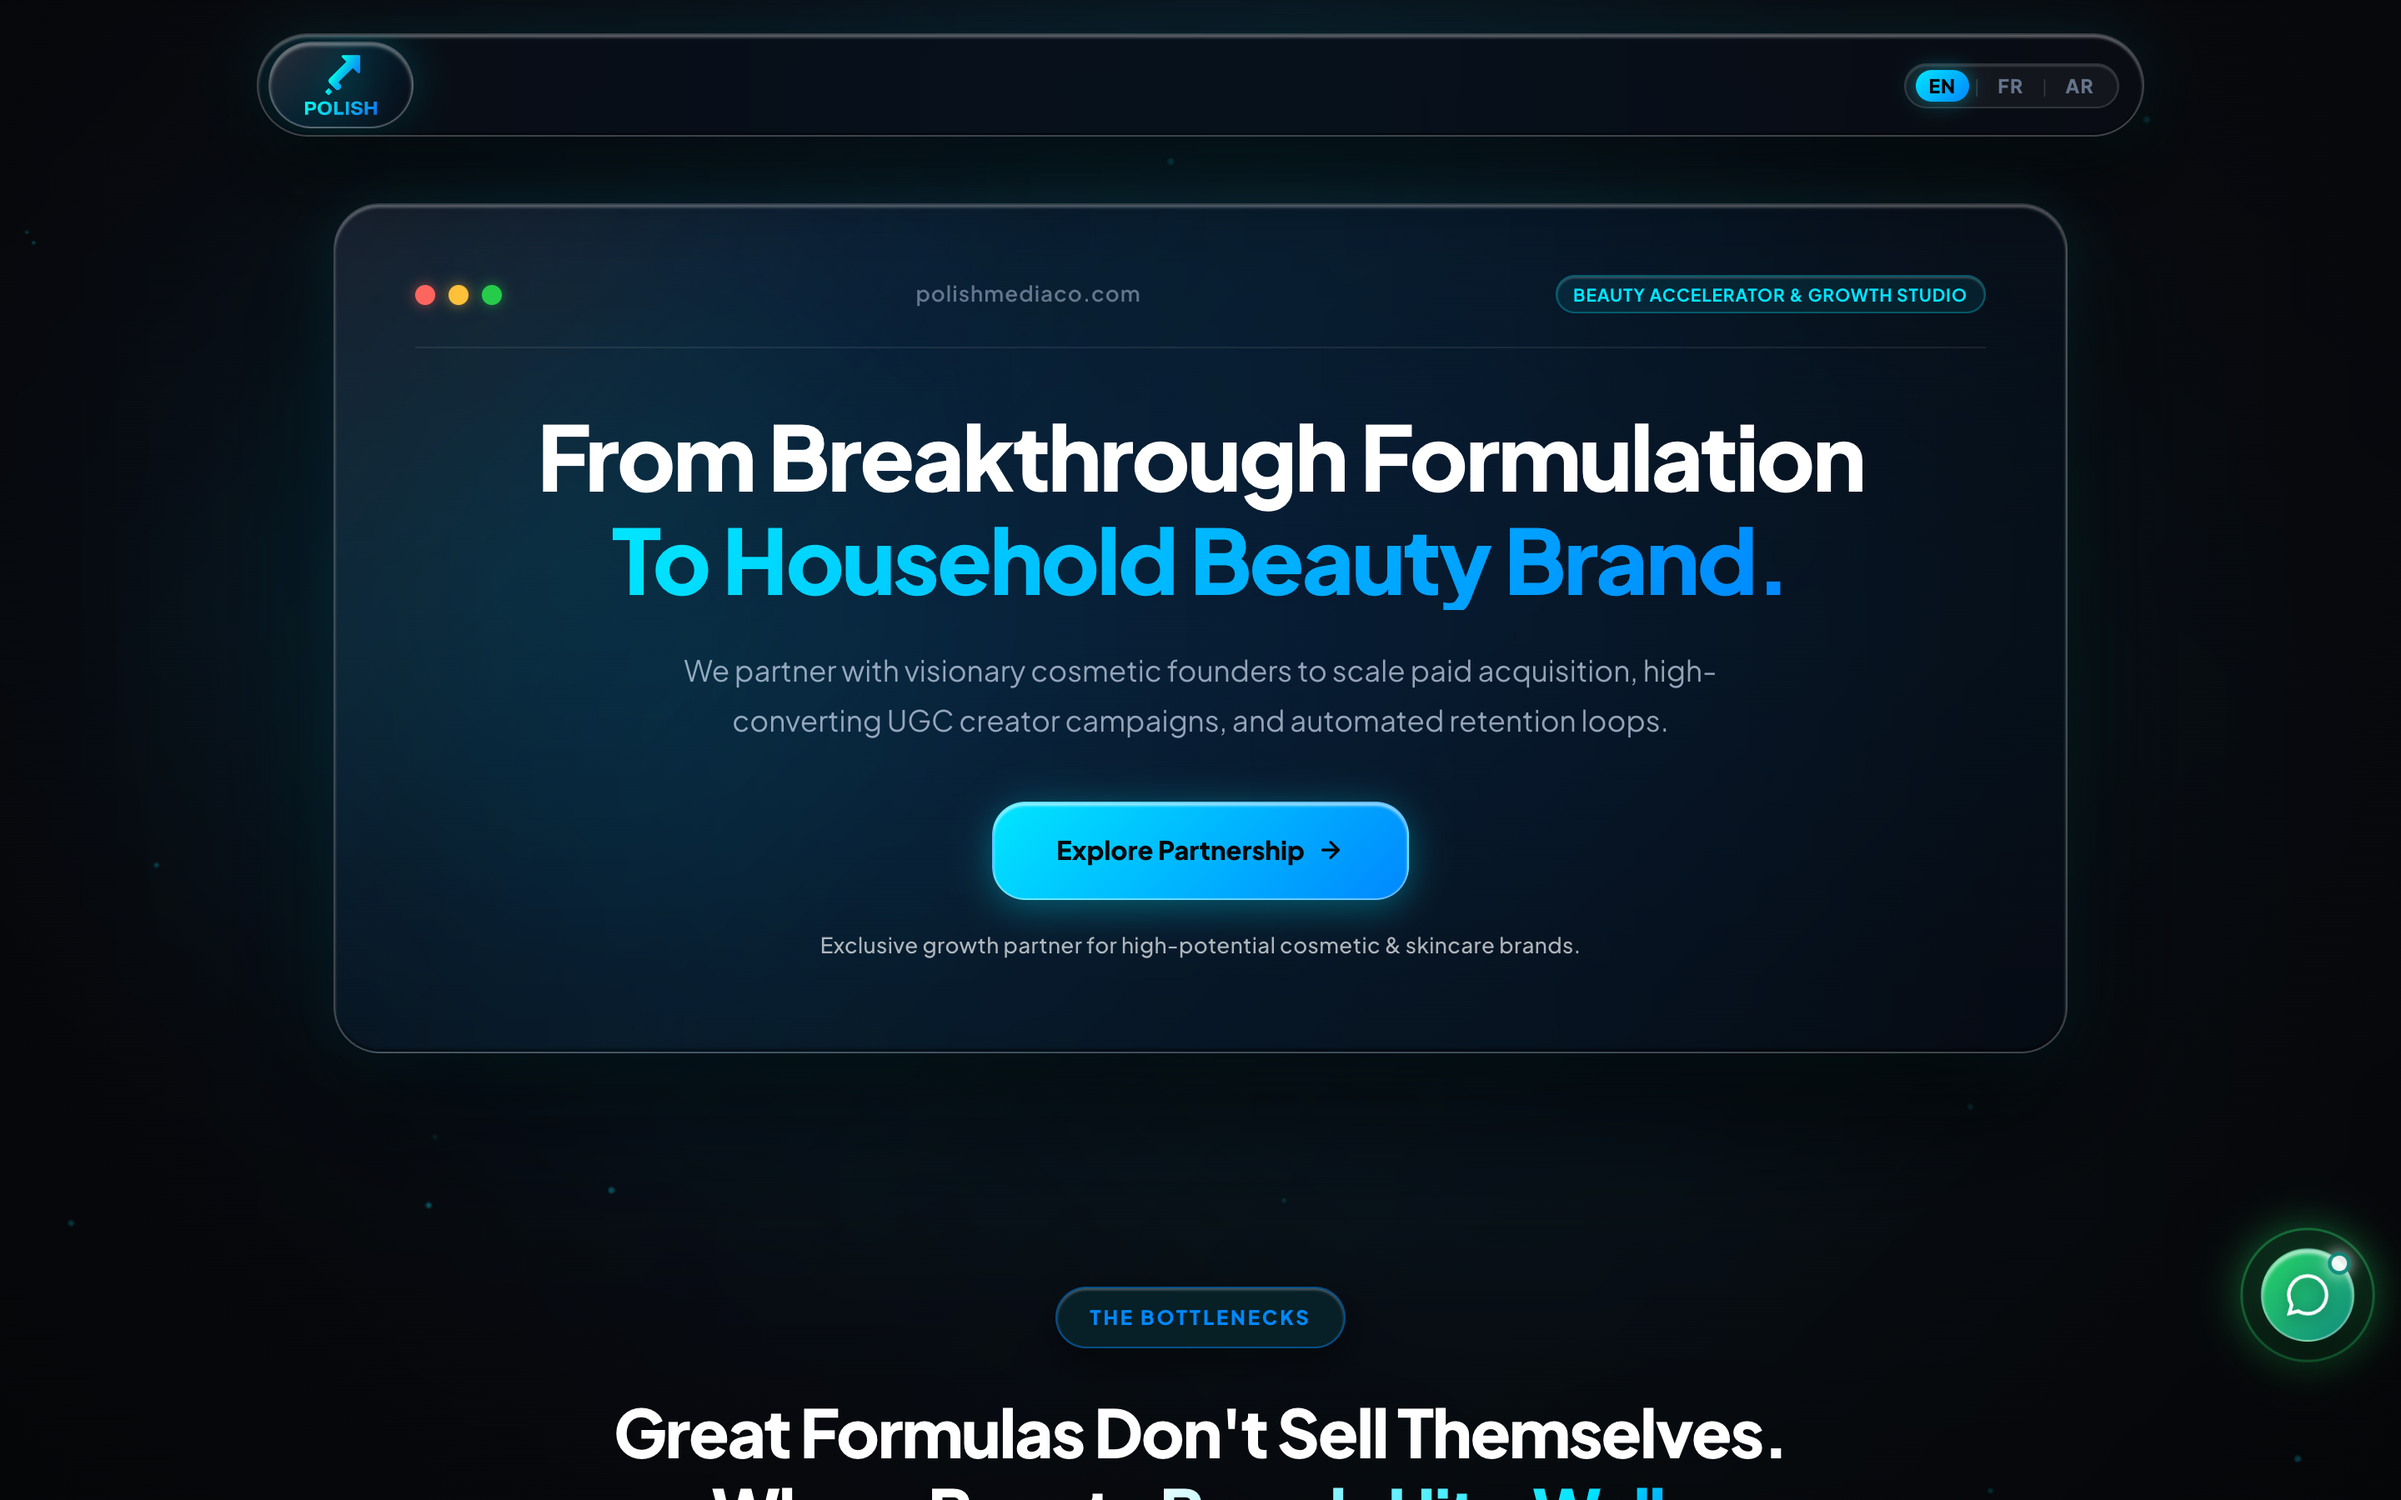
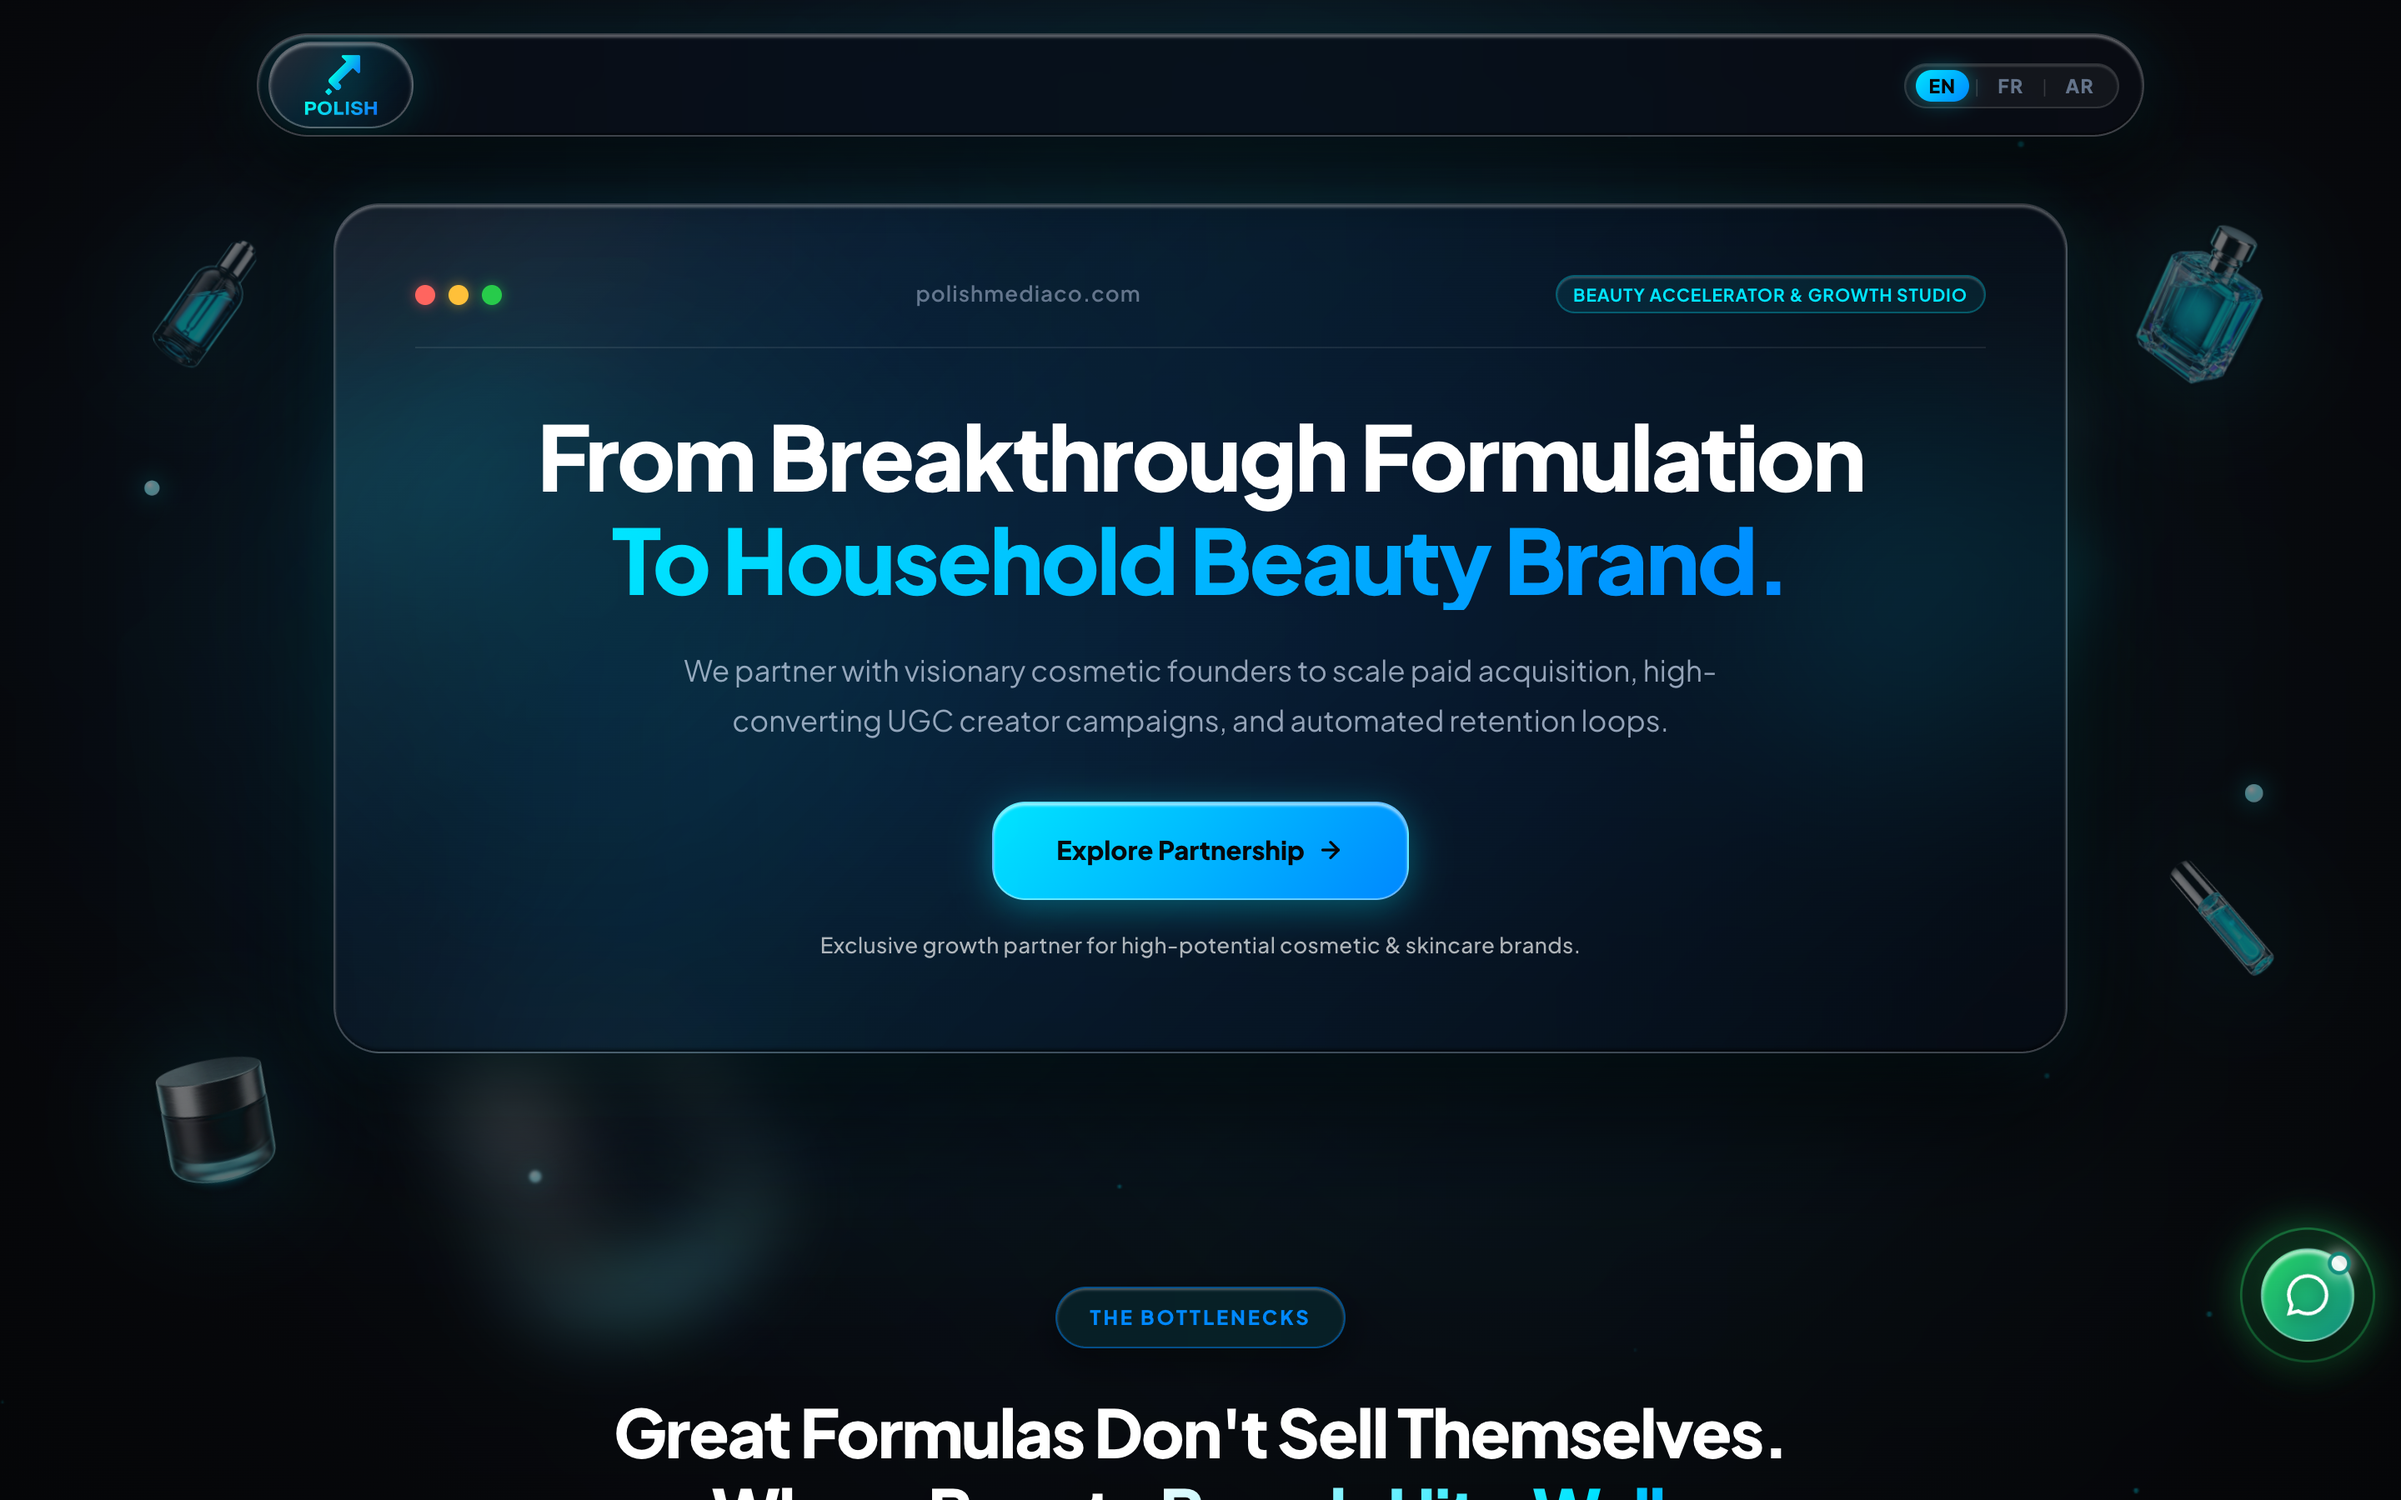
feat: implement modern web guidance multi-plane cinematic beauty depth engine with GPU harmonic physics

diff --git a/public/css/style.css b/public/css/style.css
@@ -179,6 +179,207 @@ body {
   100% { transform: translateX(-50%) rotate(4deg) scale(1.06); opacity: 0.9; }
 }
 
+/* ==========================================================================
+   CINEMATIC MULTI-PLANE LUXURY BEAUTY DEPTH ENGINE (GPU ACCELERATED)
+   ========================================================================== */
+
+.beauty-depth-layer {
+  position: absolute;
+  inset: 0;
+  width: 100%;
+  height: 100%;
+  pointer-events: none;
+  overflow: hidden;
+  will-change: transform;
+}
+
+/* Layer 1: Far Volumetric Bokeh Beauty Atmosphere (Deep Field Depth) */
+.beauty-depth-far {
+  z-index: 1;
+  filter: blur(20px) saturate(135%);
+  opacity: 0.28;
+  mix-blend-mode: screen;
+}
+
+.beauty-bokeh-item {
+  position: absolute;
+  pointer-events: none;
+  will-change: transform;
+}
+
+.beauty-bokeh-item img {
+  display: block;
+  width: 100%;
+  height: auto;
+  user-select: none;
+  -webkit-user-drag: none;
+}
+
+.bokeh-serum {
+  top: 12%;
+  left: 8%;
+  width: clamp(200px, 22vw, 320px);
+  animation: bokehDrift1 36s ease-in-out infinite alternate;
+}
+
+.bokeh-perfume {
+  top: 15%;
+  right: 6%;
+  width: clamp(220px, 24vw, 340px);
+  animation: bokehDrift2 42s ease-in-out infinite alternate-reverse;
+}
+
+.bokeh-cream {
+  top: 58%;
+  left: 14%;
+  width: clamp(210px, 23vw, 330px);
+  animation: bokehDrift3 38s ease-in-out infinite alternate;
+}
+
+/* Layer 2: Mid-Ground Luminous Crystal Beauty Products (Atmospheric Focus) */
+.beauty-depth-mid {
+  z-index: 2;
+  opacity: 0.42;
+  mix-blend-mode: screen;
+}
+
+.beauty-floating-item {
+  position: absolute;
+  pointer-events: none;
+  will-change: transform;
+  filter: drop-shadow(0 0 35px rgba(0, 229, 255, 0.35)) drop-shadow(0 20px 40px rgba(0, 0, 0, 0.95));
+}
+
+.beauty-floating-item img {
+  display: block;
+  width: 100%;
+  height: auto;
+  user-select: none;
+  -webkit-user-drag: none;
+  filter: saturate(110%) contrast(105%);
+}
+
+.float-serum-left {
+  top: 14%;
+  left: clamp(16px, 4.5vw, 75px);
+  width: clamp(75px, 8vw, 125px);
+  animation: beautyHarmonic1 26s cubic-bezier(0.45, 0.05, 0.55, 0.95) infinite alternate;
+}
+
+.float-perfume-right {
+  top: 16%;
+  right: clamp(16px, 4.8vw, 82px);
+  width: clamp(80px, 8.5vw, 132px);
+  animation: beautyHarmonic2 29s cubic-bezier(0.45, 0.05, 0.55, 0.95) infinite alternate-reverse;
+}
+
+.float-lipglaze-right {
+  top: 56%;
+  right: clamp(14px, 4.2vw, 72px);
+  width: clamp(62px, 6.5vw, 98px);
+  animation: beautyHarmonic3 24s cubic-bezier(0.45, 0.05, 0.55, 0.95) infinite alternate;
+}
+
+.float-cream-left {
+  top: 66%;
+  left: clamp(14px, 4.4vw, 76px);
+  width: clamp(78px, 8.2vw, 128px);
+  animation: beautyHarmonic4 28s cubic-bezier(0.45, 0.05, 0.55, 0.95) infinite alternate-reverse;
+}
+
+/* Layer 3: Subtle Refractive Liquid Essence Droplets */
+.beauty-depth-near {
+  z-index: 3;
+}
+
+.liquid-glint {
+  position: absolute;
+  border-radius: 50%;
+  background: radial-gradient(circle at 35% 30%, #FFFFFF 0%, #00E5FF 60%, rgba(0, 136, 255, 0.2) 100%);
+  box-shadow: 0 0 16px rgba(0, 229, 255, 0.7), inset -2px -2px 6px rgba(255, 255, 255, 0.8);
+  will-change: transform;
+}
+
+.glint-1 {
+  top: 32%;
+  left: clamp(20px, 6vw, 95px);
+  width: 10px;
+  height: 10px;
+  opacity: 0.85;
+  animation: glintDrift1 18s ease-in-out infinite alternate;
+}
+
+.glint-2 {
+  top: 48%;
+  right: clamp(20px, 6.5vw, 100px);
+  width: 12px;
+  height: 12px;
+  opacity: 0.8;
+  animation: glintDrift2 22s ease-in-out infinite alternate-reverse;
+}
+
+.glint-3 {
+  top: 78%;
+  left: 22%;
+  width: 8px;
+  height: 8px;
+  opacity: 0.6;
+  filter: blur(1px);
+  animation: glintDrift1 26s ease-in-out infinite alternate;
+}
+
+/* Physics-based Easing Keyframes (100% GPU Composited) */
+@keyframes bokehDrift1 {
+  0% { transform: translate3d(0, 0, 0) scale(0.96) rotate(-4deg); }
+  100% { transform: translate3d(30px, -40px, 0) scale(1.08) rotate(4deg); }
+}
+
+@keyframes bokehDrift2 {
+  0% { transform: translate3d(0, 0, 0) scale(1.04) rotate(6deg); }
+  100% { transform: translate3d(-35px, 45px, 0) scale(0.95) rotate(-3deg); }
+}
+
+@keyframes bokehDrift3 {
+  0% { transform: translate3d(0, 0, 0) scale(0.98); }
+  100% { transform: translate3d(25px, 35px, 0) scale(1.06); }
+}
+
+@keyframes beautyHarmonic1 {
+  0% { transform: translate3d(0, 0, 0) rotate(-6deg) scale(1); }
+  50% { transform: translate3d(10px, -18px, 0) rotate(-1deg) scale(1.02); }
+  100% { transform: translate3d(-8px, -32px, 0) rotate(3deg) scale(0.98); }
+}
+
+@keyframes beautyHarmonic2 {
+  0% { transform: translate3d(0, 0, 0) rotate(8deg) scale(1); }
+  50% { transform: translate3d(-12px, 16px, 0) rotate(2deg) scale(1.03); }
+  100% { transform: translate3d(10px, -22px, 0) rotate(-4deg) scale(0.98); }
+}
+
+@keyframes beautyHarmonic3 {
+  0% { transform: translate3d(0, 0, 0) rotate(-8deg); }
+  50% { transform: translate3d(8px, 16px, 0) rotate(-2deg); }
+  100% { transform: translate3d(-10px, 26px, 0) rotate(-12deg); }
+}
+
+@keyframes beautyHarmonic4 {
+  0% { transform: translate3d(0, 0, 0) rotate(6deg); }
+  50% { transform: translate3d(-10px, -14px, 0) rotate(-1deg); }
+  100% { transform: translate3d(8px, 18px, 0) rotate(10deg); }
+}
+
+@keyframes glintDrift1 {
+  0% { transform: translate3d(0, 0, 0) scale(0.9); opacity: 0.5; }
+  50% { transform: translate3d(14px, -20px, 0) scale(1.2); opacity: 0.95; }
+  100% { transform: translate3d(-10px, -36px, 0) scale(0.85); opacity: 0.4; }
+}
+
+@keyframes glintDrift2 {
+  0% { transform: translate3d(0, 0, 0) scale(1); opacity: 0.7; }
+  50% { transform: translate3d(-16px, 22px, 0) scale(1.25); opacity: 1; }
+  100% { transform: translate3d(12px, 38px, 0) scale(0.9); opacity: 0.5; }
+}
+
 /* Mouse-Tracking Caustic Orb (GPU Composited) */
 .mouse-caustic-light {
   position: fixed;

diff --git a/public/creators.html b/public/creators.html
@@ -19,13 +19,49 @@
 </head>
 <body class="page-apply">
 
-  <!-- Atmospheric Luxury Studio Aurora & Caustics Engine -->
+  <!-- Cinematic Multi-Plane Luxury Beauty Atmosphere Engine -->
   <div class="bg-canvas-wrap ambient-bg-container" aria-hidden="true">
     <div class="ambient-glow-top"></div>
     <div class="ambient-glow-cyan"></div>
     <div class="ambient-glow-blue"></div>
     <div class="ambient-glow-center"></div>
     <div class="ambient-aurora-prism"></div>
+
+    <!-- Depth Layer 1: Volumetric Deep Bokeh Beauty Silhouettes -->
+    <div class="beauty-depth-layer beauty-depth-far">
+      <div class="beauty-bokeh-item bokeh-serum">
+        <img src="/assets/3d/serum-3d.webp" alt="" width="280" height="280" loading="lazy">
+      </div>
+      <div class="beauty-bokeh-item bokeh-perfume">
+        <img src="/assets/3d/perfume-3d.webp" alt="" width="300" height="300" loading="lazy">
+      </div>
+      <div class="beauty-bokeh-item bokeh-cream">
+        <img src="/assets/3d/cream-3d.webp" alt="" width="290" height="290" loading="lazy">
+      </div>
+    </div>
+
+    <!-- Depth Layer 2: Ambient Mid-Ground Floating Crystal Glass Elements -->
+    <div class="beauty-depth-layer beauty-depth-mid">
+      <div class="beauty-floating-item float-serum-left">
+        <img src="/assets/3d/serum-3d.webp" alt="" width="130" height="130" loading="lazy">
+      </div>
+      <div class="beauty-floating-item float-perfume-right">
+        <img src="/assets/3d/perfume-3d.webp" alt="" width="135" height="135" loading="lazy">
+      </div>
+      <div class="beauty-floating-item float-lipglaze-right">
+        <img src="/assets/3d/lipglaze-3d.webp" alt="" width="110" height="110" loading="lazy">
+      </div>
+      <div class="beauty-floating-item float-cream-left">
+        <img src="/assets/3d/cream-3d.webp" alt="" width="135" height="135" loading="lazy">
+      </div>
+    </div>
+
+    <!-- Depth Layer 3: Micro Liquid Cyan Glints -->
+    <div class="beauty-depth-layer beauty-depth-near">
+      <div class="liquid-glint glint-1"></div>
+      <div class="liquid-glint glint-2"></div>
+      <div class="liquid-glint glint-3"></div>
+    </div>
   </div>
 
   <!-- Hovering Glass Header Island -->

diff --git a/public/apply.html b/public/apply.html
@@ -29,13 +29,49 @@
 </head>
 <body>
 
-  <!-- Atmospheric Luxury Studio Aurora & Caustics Engine -->
+  <!-- Cinematic Multi-Plane Luxury Beauty Atmosphere Engine -->
   <div class="bg-canvas-wrap ambient-bg-container" aria-hidden="true">
     <div class="ambient-glow-top"></div>
     <div class="ambient-glow-cyan"></div>
     <div class="ambient-glow-blue"></div>
     <div class="ambient-glow-center"></div>
     <div class="ambient-aurora-prism"></div>
+
+    <!-- Depth Layer 1: Volumetric Deep Bokeh Beauty Silhouettes -->
+    <div class="beauty-depth-layer beauty-depth-far">
+      <div class="beauty-bokeh-item bokeh-serum">
+        <img src="/assets/3d/serum-3d.webp" alt="" width="280" height="280" loading="lazy">
+      </div>
+      <div class="beauty-bokeh-item bokeh-perfume">
+        <img src="/assets/3d/perfume-3d.webp" alt="" width="300" height="300" loading="lazy">
+      </div>
+      <div class="beauty-bokeh-item bokeh-cream">
+        <img src="/assets/3d/cream-3d.webp" alt="" width="290" height="290" loading="lazy">
+      </div>
+    </div>
+
+    <!-- Depth Layer 2: Ambient Mid-Ground Floating Crystal Glass Elements -->
+    <div class="beauty-depth-layer beauty-depth-mid">
+      <div class="beauty-floating-item float-serum-left">
+        <img src="/assets/3d/serum-3d.webp" alt="" width="130" height="130" loading="lazy">
+      </div>
+      <div class="beauty-floating-item float-perfume-right">
+        <img src="/assets/3d/perfume-3d.webp" alt="" width="135" height="135" loading="lazy">
+      </div>
+      <div class="beauty-floating-item float-lipglaze-right">
+        <img src="/assets/3d/lipglaze-3d.webp" alt="" width="110" height="110" loading="lazy">
+      </div>
+      <div class="beauty-floating-item float-cream-left">
+        <img src="/assets/3d/cream-3d.webp" alt="" width="135" height="135" loading="lazy">
+      </div>
+    </div>
+
+    <!-- Depth Layer 3: Micro Liquid Cyan Glints -->
+    <div class="beauty-depth-layer beauty-depth-near">
+      <div class="liquid-glint glint-1"></div>
+      <div class="liquid-glint glint-2"></div>
+      <div class="liquid-glint glint-3"></div>
+    </div>
   </div>
 
   <!-- Hovering Glass Header Island -->

diff --git a/public/index.html b/public/index.html
@@ -29,13 +29,49 @@
 </head>
 <body>
 
-  <!-- Atmospheric Luxury Studio Aurora & Caustics Engine -->
+  <!-- Cinematic Multi-Plane Luxury Beauty Atmosphere Engine -->
   <div class="bg-canvas-wrap ambient-bg-container" aria-hidden="true">
     <div class="ambient-glow-top"></div>
     <div class="ambient-glow-cyan"></div>
     <div class="ambient-glow-blue"></div>
     <div class="ambient-glow-center"></div>
     <div class="ambient-aurora-prism"></div>
+
+    <!-- Depth Layer 1: Volumetric Deep Bokeh Beauty Silhouettes -->
+    <div class="beauty-depth-layer beauty-depth-far">
+      <div class="beauty-bokeh-item bokeh-serum">
+        <img src="/assets/3d/serum-3d.webp" alt="" width="280" height="280" loading="lazy">
+      </div>
+      <div class="beauty-bokeh-item bokeh-perfume">
+        <img src="/assets/3d/perfume-3d.webp" alt="" width="300" height="300" loading="lazy">
+      </div>
+      <div class="beauty-bokeh-item bokeh-cream">
+        <img src="/assets/3d/cream-3d.webp" alt="" width="290" height="290" loading="lazy">
+      </div>
+    </div>
+
+    <!-- Depth Layer 2: Ambient Mid-Ground Floating Crystal Glass Elements -->
+    <div class="beauty-depth-layer beauty-depth-mid">
+      <div class="beauty-floating-item float-serum-left">
+        <img src="/assets/3d/serum-3d.webp" alt="" width="130" height="130" loading="lazy">
+      </div>
+      <div class="beauty-floating-item float-perfume-right">
+        <img src="/assets/3d/perfume-3d.webp" alt="" width="135" height="135" loading="lazy">
+      </div>
+      <div class="beauty-floating-item float-lipglaze-right">
+        <img src="/assets/3d/lipglaze-3d.webp" alt="" width="110" height="110" loading="lazy">
+      </div>
+      <div class="beauty-floating-item float-cream-left">
+        <img src="/assets/3d/cream-3d.webp" alt="" width="135" height="135" loading="lazy">
+      </div>
+    </div>
+
+    <!-- Depth Layer 3: Micro Liquid Cyan Glints -->
+    <div class="beauty-depth-layer beauty-depth-near">
+      <div class="liquid-glint glint-1"></div>
+      <div class="liquid-glint glint-2"></div>
+      <div class="liquid-glint glint-3"></div>
+    </div>
   </div>
 
   <!-- Hovering Glass Header Island -->
